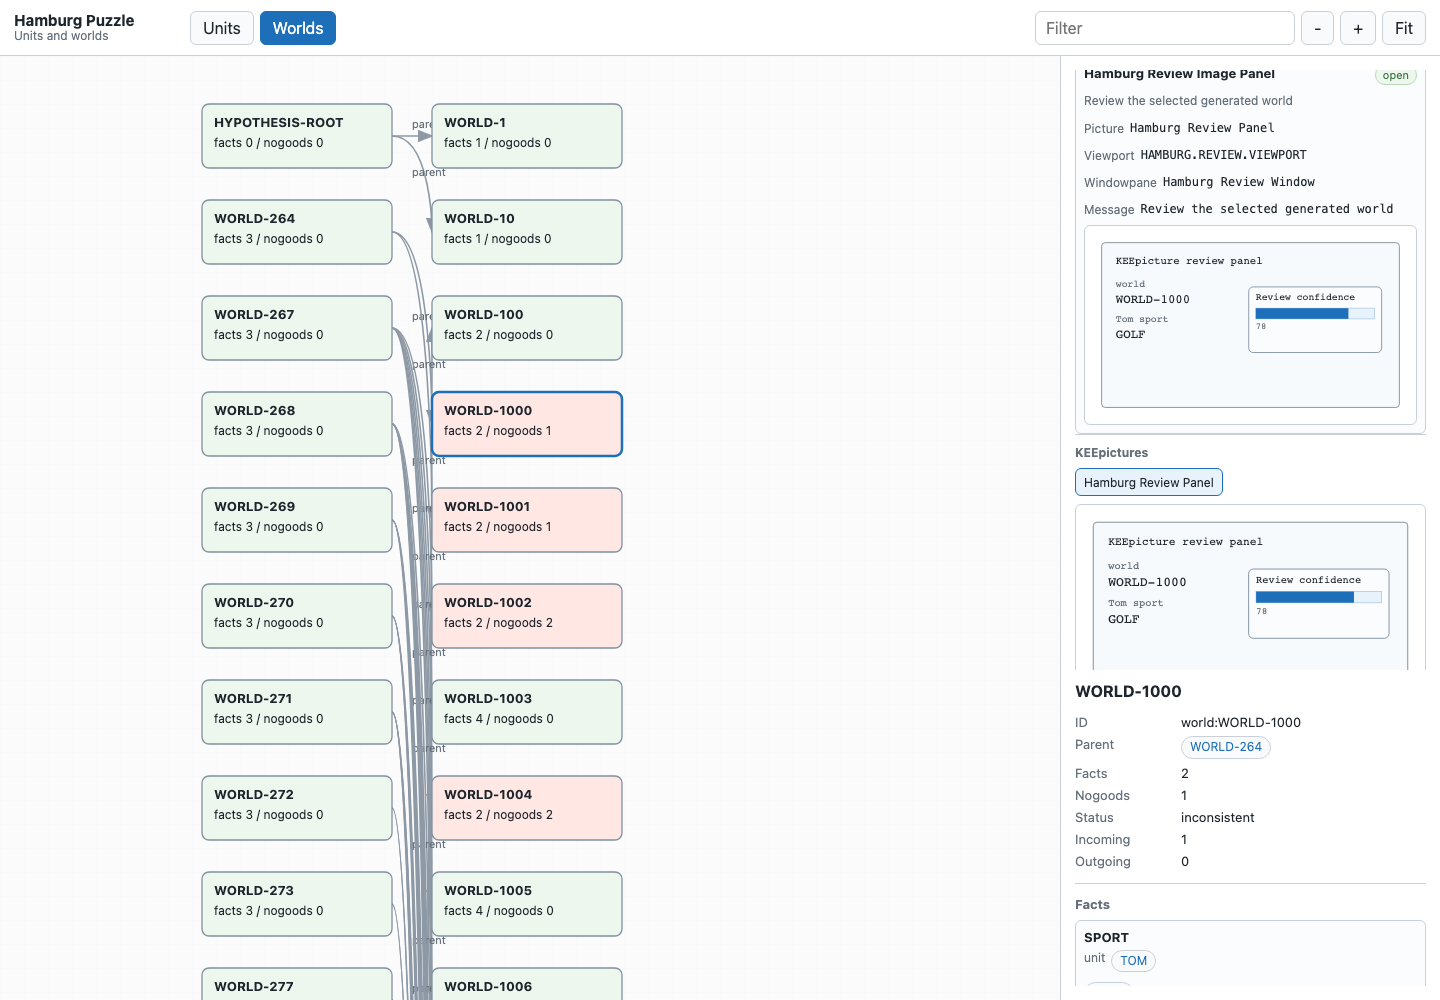
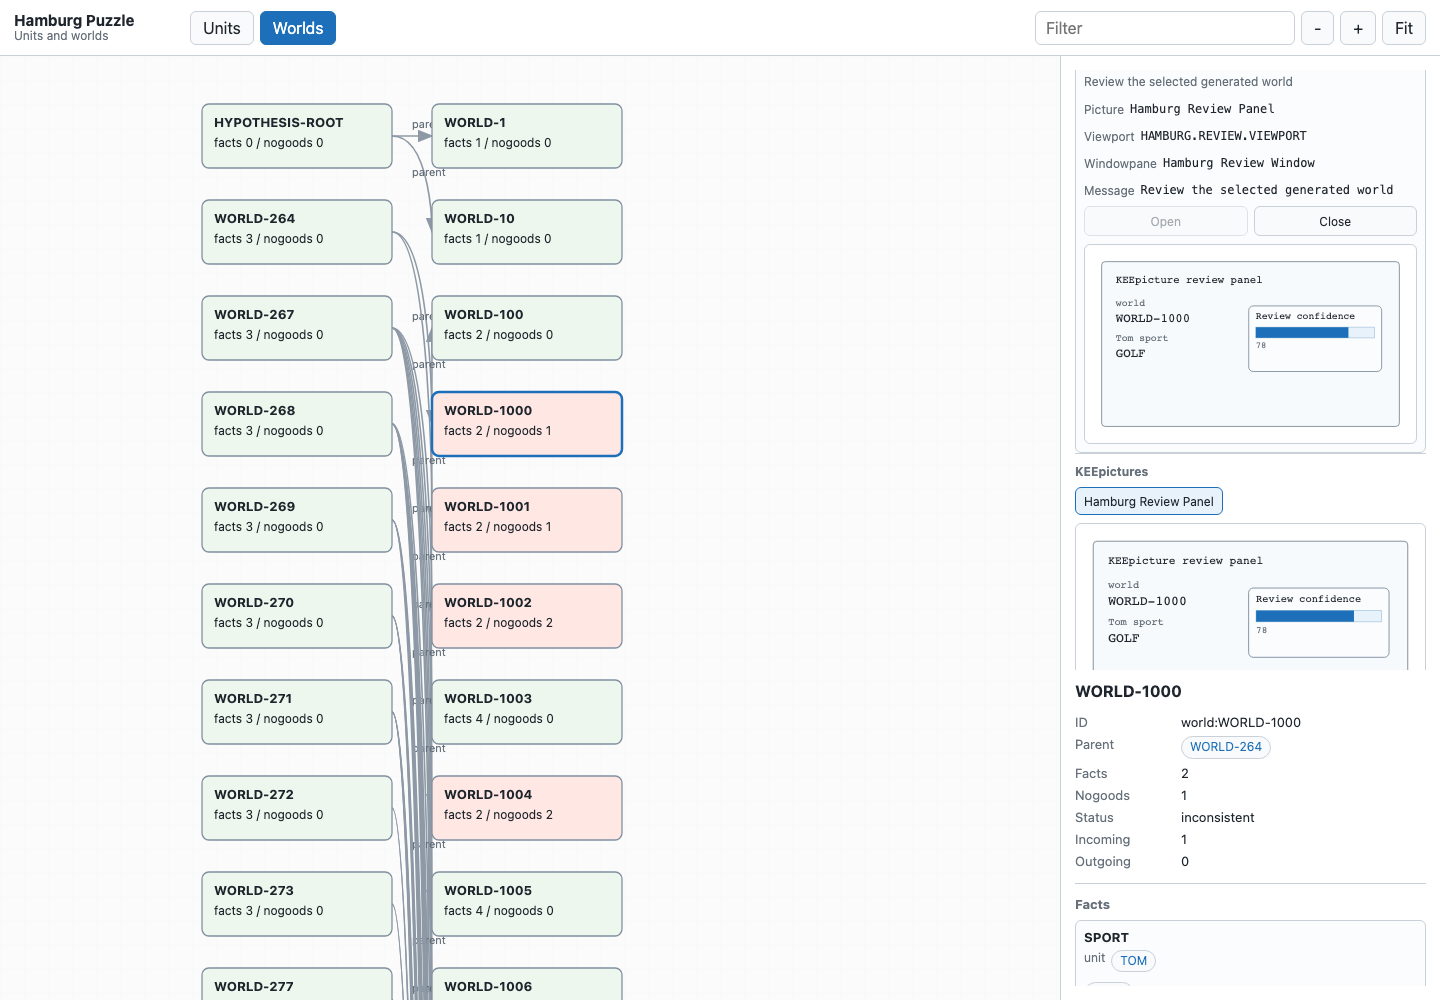
Add interactive panel controls

Changed region(s): [[0.75, 0.062, 0.9688, 0.341], [0.75, 0.403, 0.9688, 0.651]]

diff --git a/test/viewer-tour.spec.js b/test/viewer-tour.spec.js
@@ -54,6 +54,18 @@ test('review tour jumps to reconstructed KEE surfaces', async ({ page }) => {
   await expect(page.locator('#picture-browser')).toContainText('Hamburg Review Window');
   await expect(page.locator('.inspector-pane')).toContainText('Picture mouse');
 
+  await expect(page.locator('[data-review-tour="panels"]')).toBeEnabled();
+  await expect(page.locator('[data-desktop-tour="panels"]')).toBeEnabled();
+  await page.locator('[data-review-tour="panels"]').click();
+  await expect(page.locator('#picture-browser')).toContainText('Hamburg Review Image Panel');
+  await expect(page.locator('#picture-browser .panel-state')).toHaveText('open');
+  await page.locator('button[data-panel-action="close"]').click();
+  await expect(page.locator('#picture-browser .panel-state')).toHaveText('closed');
+  await expect(page.locator('.inspector-pane')).toContainText('Panel closed');
+  await page.locator('button[data-panel-action="open"]').click();
+  await expect(page.locator('#picture-browser .panel-state')).toHaveText('open');
+  await expect(page.locator('.inspector-pane')).toContainText('Panel opened');
+
   await expect(page.locator('[data-review-tour="active-images"]')).toBeEnabled();
   await expect(page.locator('[data-desktop-tour="active-images"]')).toBeEnabled();
   await page.locator('[data-review-tour="active-images"]').click();

diff --git a/docs/api-surface.md b/docs/api-surface.md
@@ -227,7 +227,9 @@ Current reconstruction:
   message fields.
 - The standalone viewer embeds panel reports in `details.panels`, enables a
   Panels Review Tour/Desktop target when panels exist, renders panel state and
-  SVG previews, and includes panel events in the picture trace family.
+  SVG previews, includes panel events in the picture trace family, and offers
+  local static-page Open/Close controls that append reconstructed panel trace
+  events.
 
 Important uncertainty:
 

diff --git a/docs/demo.md b/docs/demo.md
@@ -64,6 +64,10 @@ The Panels tour screenshot uses the reconstructed image/workflow panel target:
 KEE_DEMO_TOUR=panels nix develop --command scripts/screenshot-demo.sh docs/assets/screenshots/hamburg-viewer-panels.png
 ```
 
+The Panels tour also has static-page Open and Close controls. They update the
+generated page's local panel state and append reconstructed panel trace events
+for quick reviewer interaction.
+
 ## Interaction Check
 
 Run the browser-level viewer check:

diff --git a/docs/gui-reconstruction.md b/docs/gui-reconstruction.md
@@ -222,8 +222,8 @@ the NPS AUV mission-planning evidence:
 - `kee.panel.report` exposes a structured panel report plus the linked
   picture SVG preview
 - the standalone viewer has a Panels Review Tour/Desktop target, panel tabs,
-  open/closed state display, SVG previews, and picture-family trace handling
-  for `:panel-open` and `:panel-close`
+  local open/close controls, open/closed state display, SVG previews, and
+  picture-family trace handling for `:panel-open` and `:panel-close`
 
 ## Implemented ActiveImage Increment
 

diff --git a/README.md b/README.md
@@ -94,7 +94,8 @@ The first implementation target is `kee-core`:
   mouse-event traces, and SVG previews through `kee.picture.svg`
 - first-pass image/workflow panel units over KEEpictures and windowpanes, with
   `open-panel!`, `close-panel!`, `open!`, and `close!` message methods,
-  panel open/close traces, and viewer panel previews
+  panel open/close traces, and viewer panel previews with local open/close
+  controls
 - readable knowledge-base dumps with `dump.kb`, `write.kb.dump`,
   `read.kb.dump`, `load.kb.dump`, and file helpers, preserving units, parent
   links, local slots, facets, unit references, ActiveImage units, and